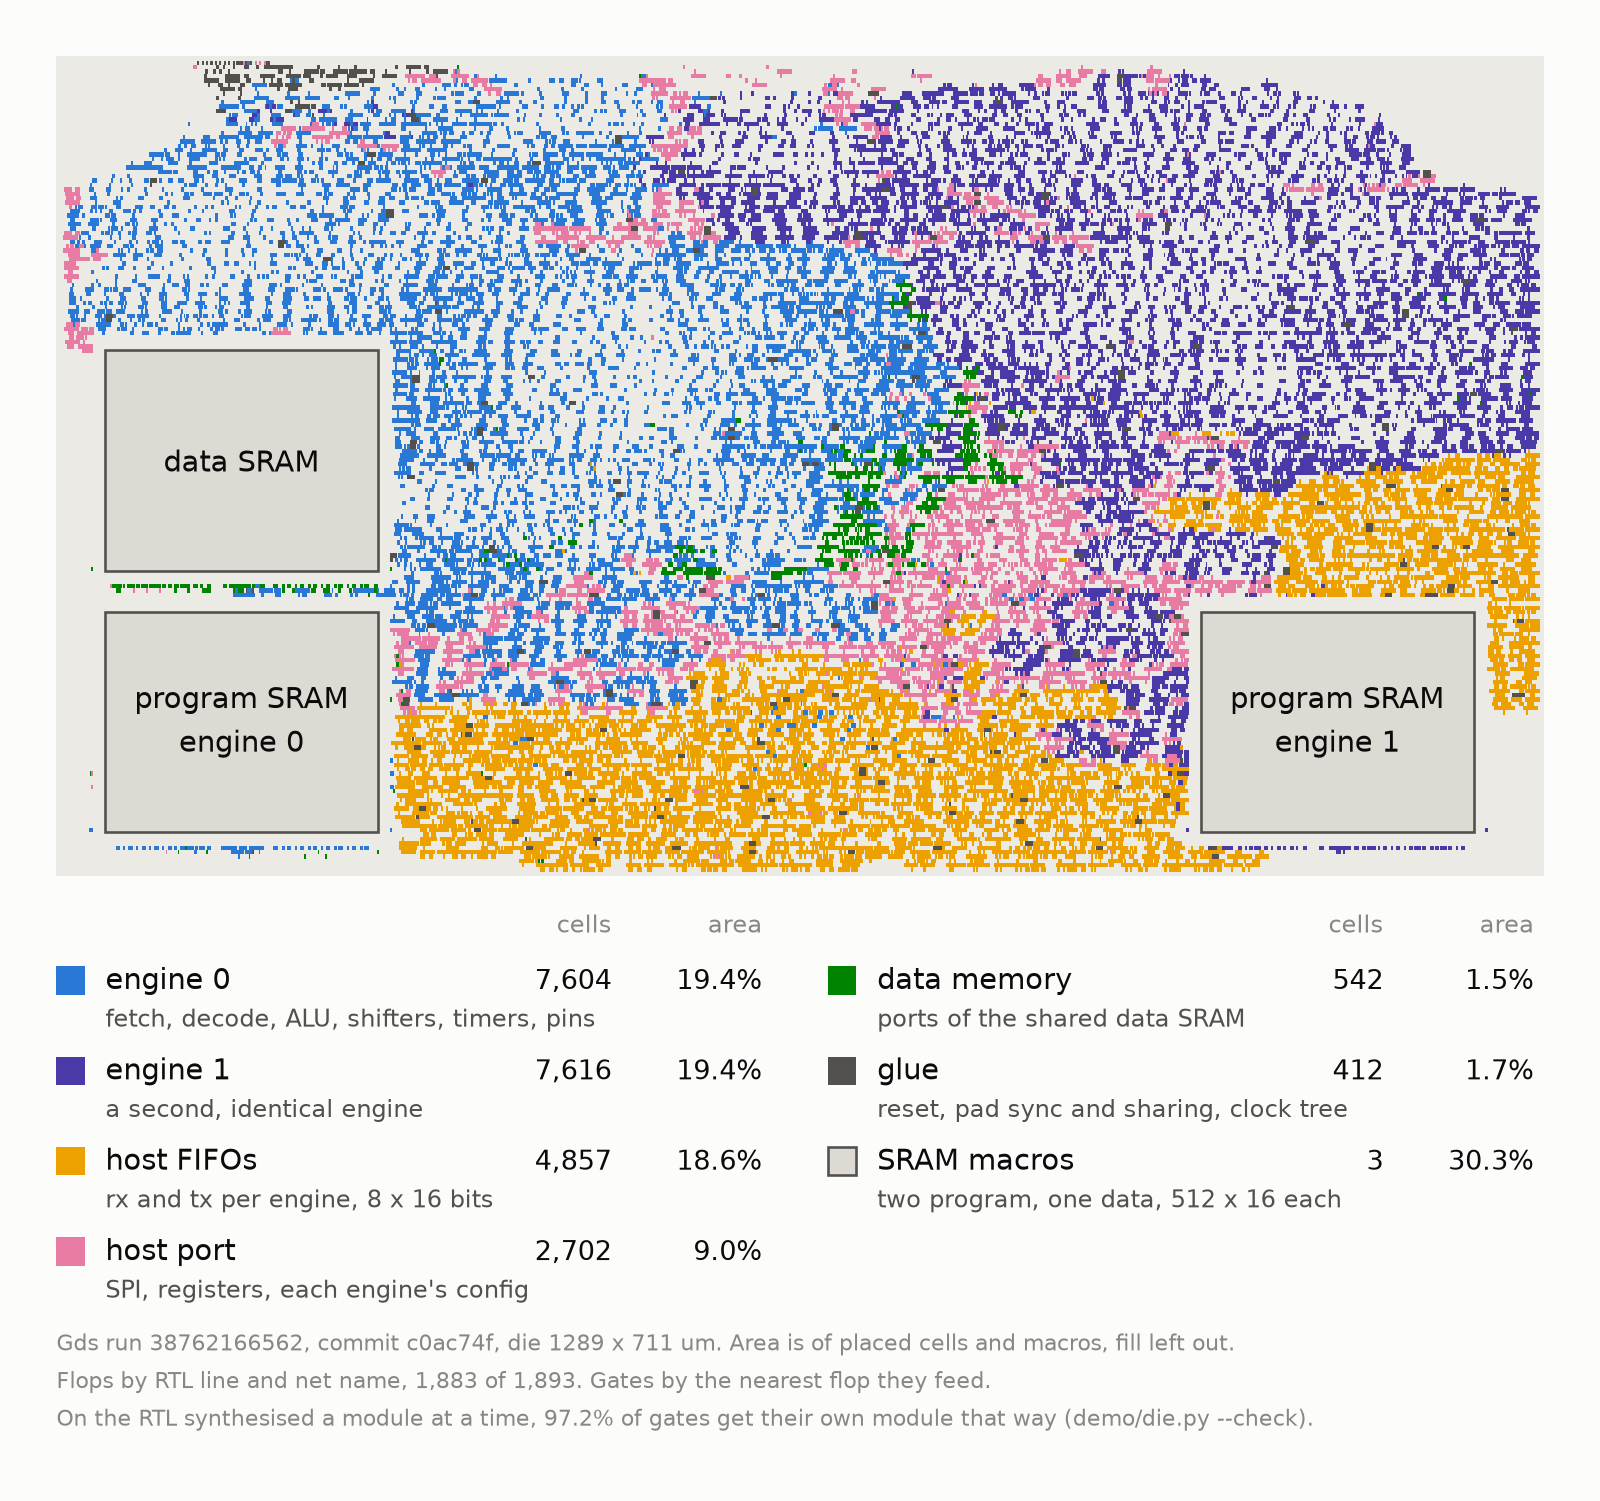
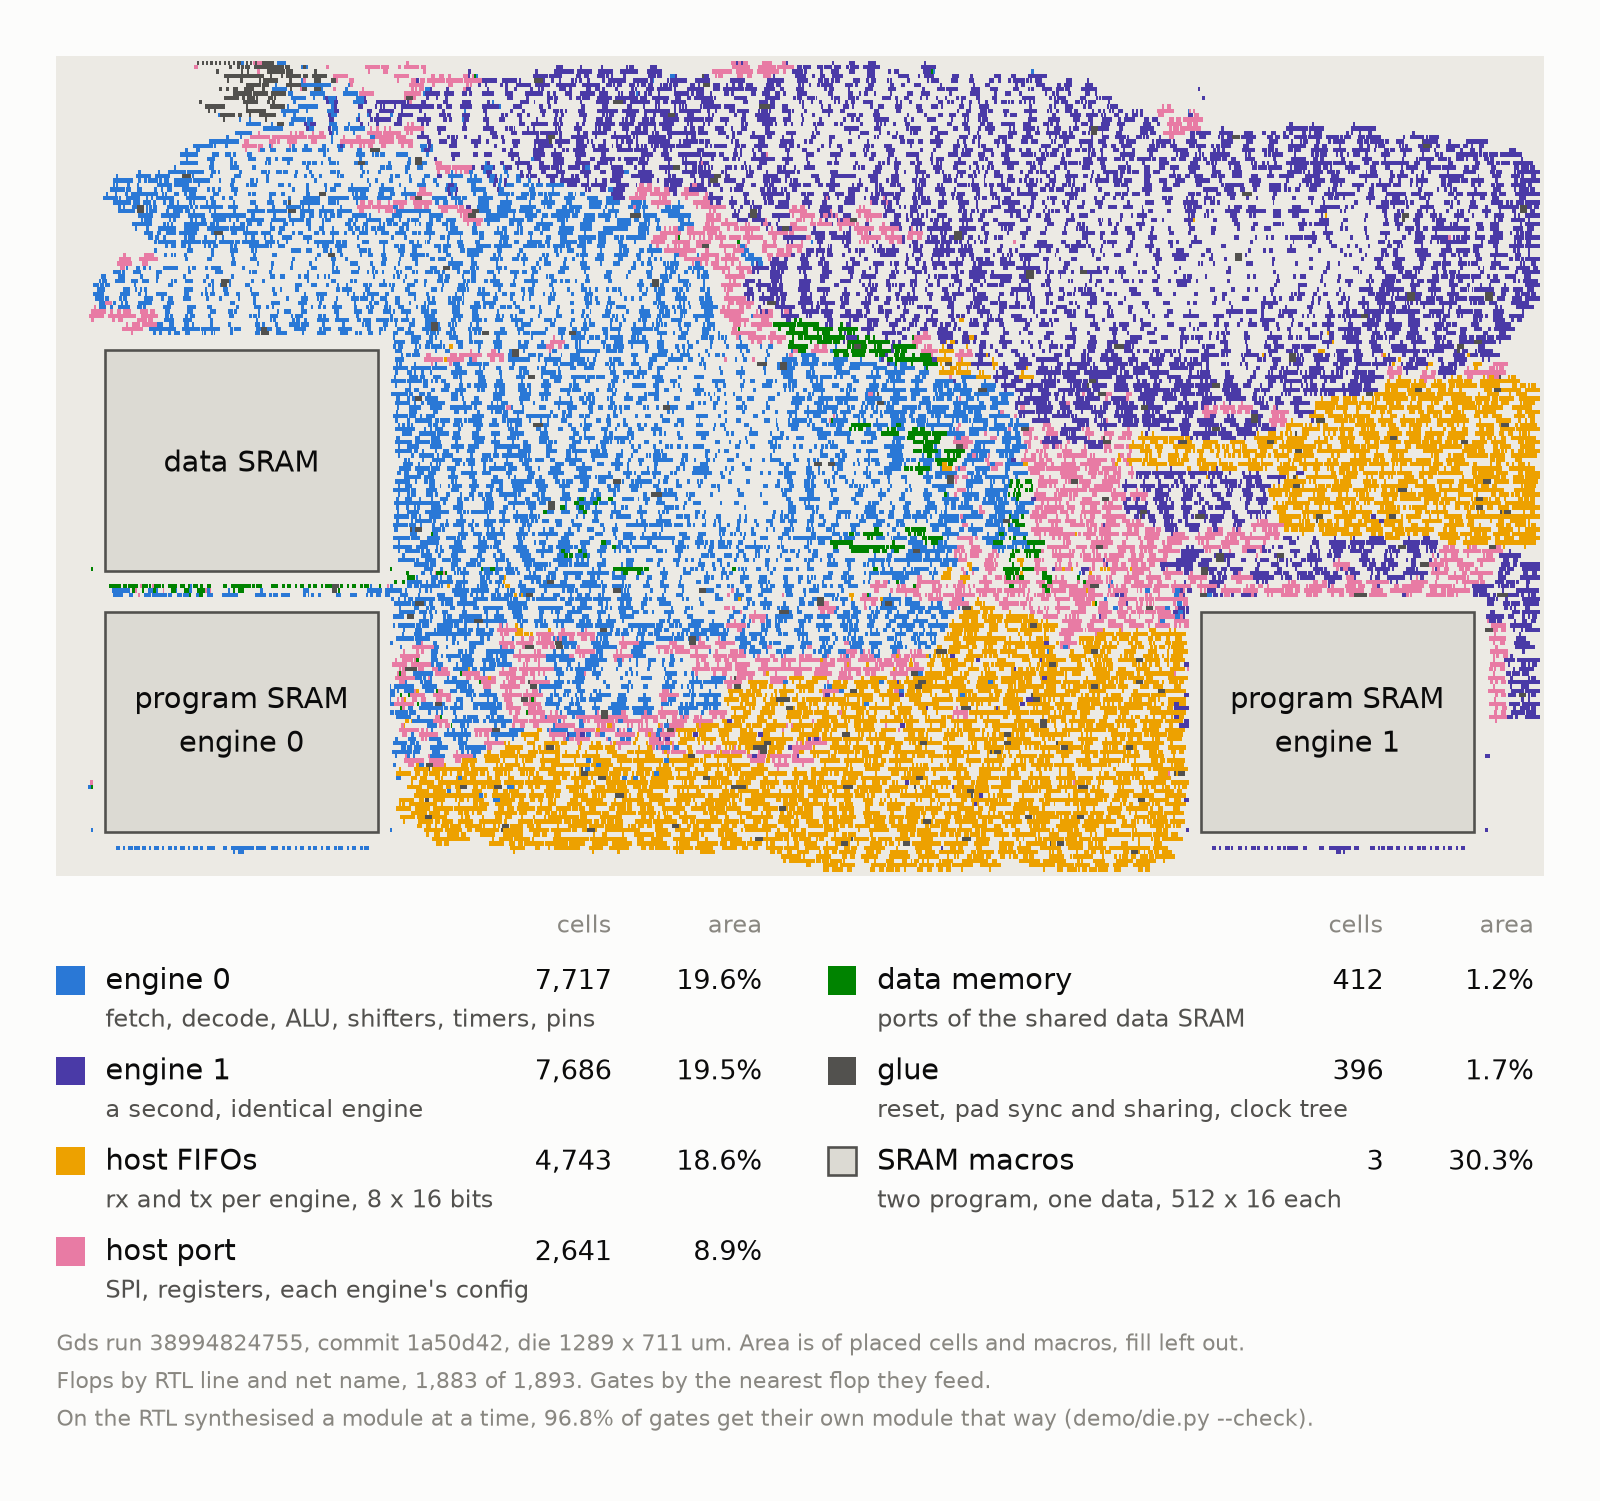
cite gds run 38994824755, which hardened the start gate, and redraw its die

diff --git a/README.md b/README.md
@@ -18,7 +18,7 @@ the RTL is proven never to miss one of its deadlines, under the assumptions belo
 | Clock | 50 MHz | `info.yaml` |
 | Cores | 2 cores, 3 IHP 512 x 16 SRAM macros: a program memory each and a data memory they share | `src/protocol_emulator.v` |
 | Pins | 4 for the host's SPI, 5 in, 7 out, 8 bidirectional, and 8 wires between the cores | `info.yaml`, `src/isa.ml` |
-| Hardened | 23,733 standard cells at 49.8% utilisation, setup slack +4.323 ns at the slow corner, precheck clean | gds run [38762166562](https://github.com/MarcosAsh/protocol-emulator/actions/runs/38762166562) |
+| Hardened | 23,595 standard cells at 49.7% utilisation, setup slack +3.100 ns at the slow corner, precheck clean | gds run [38994824755](https://github.com/MarcosAsh/protocol-emulator/actions/runs/38994824755) |
 | Firmware | 43 library firmwares the kernel accepts | `test/test_kernel.ml` |
 | Proved | a program the kernel accepts never misses a deadline on each core's RTL, under the assumptions below | `formal/phase_table.sby` |
 | Board | the RTL on an Icepi Zero (ECP5 FPGA) passed the self-timing demo on 2026-10-09, no silicon yet | `python/demo_self_timing.py` |
@@ -173,11 +173,11 @@ no board in about 17 minutes. Each claim's last green run in CI is on the
 [results page](https://marcosash.github.io/protocol-emulator/results/).
 
 To harden, clone TinyTapeout/tt-support-tools, branch `ihp-sg13cmos5l`, into `tt/`, then
-`tt/tt_tool.py --create-user-config --ihp` and `--harden --ihp`. Gds run 38762166562, on
-this Verilog, signs off with setup slack +4.323 ns at the slow corner, at 49.8%
+`tt/tt_tool.py --create-user-config --ihp` and `--harden --ihp`. Gds run 38994824755, on
+this Verilog, signs off with setup slack +3.100 ns at the slow corner, at 49.7%
 utilisation. The picture is this harden's die by RTL module, drawn by `demo/die.py` from its
 `GDS_logs` artifact. 1,883 of 1,893 flops map by RTL line and net name. Each gate goes with
-the nearest flop it feeds, which gets 97.2% of gates right on the RTL synthesised a module
+the nearest flop it feeds, which gets 96.8% of gates right on the RTL synthesised a module
 at a time (`--check`).
 
 ![the hardened die, each cell coloured by its RTL module](docs/die.png)
